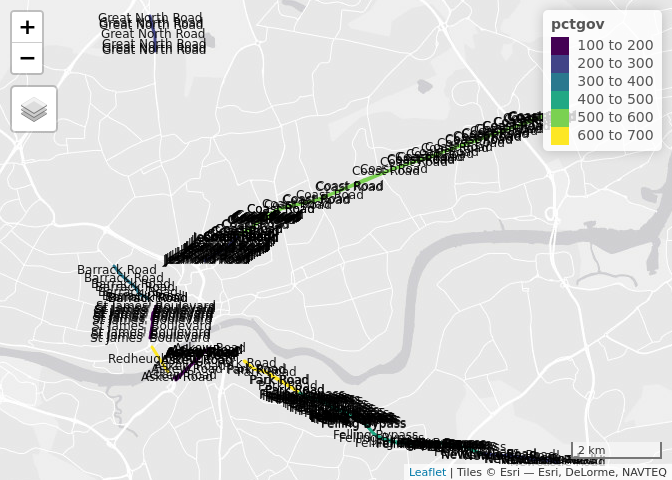
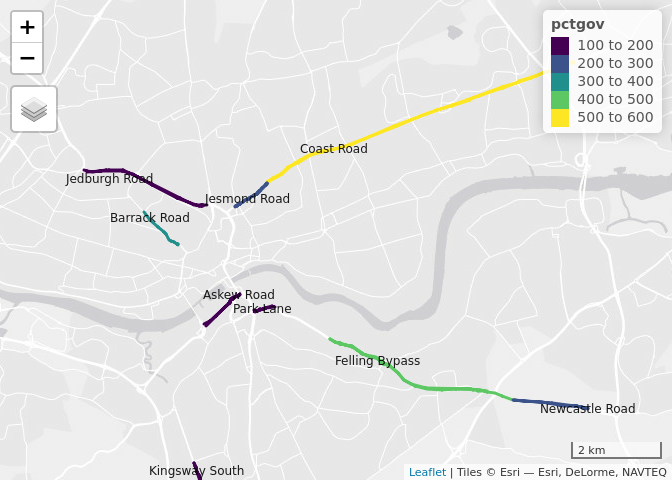
Update results for all 10 cities
Close #3 for now, thanks for feedback @joeytalbot, @mem48 and @mvl22

diff --git a/README.md b/README.md
@@ -246,18 +246,18 @@ The top 10 roads:
 
 ![](README_files/figure-gfm/unnamed-chunk-21-1.png)<!-- -->
 
-| name                | ref   | road\_type | cycling\_potential | length\_m |
-| :------------------ | :---- | :--------- | -----------------: | --------: |
-| Redheugh Bridge     | A189  | primary    |                688 |       649 |
-| Park Road           | A184  | trunk      |                666 |      2849 |
-| Coast Road          | A1058 | trunk      |                529 |     17203 |
-| Felling Bypass      | A184  | trunk      |                490 |      8164 |
-| Barrack Road        | A189  | primary    |                344 |      1063 |
-| Newcastle Road      | A184  | trunk      |                293 |      4492 |
-| Great North Road    | B1318 | secondary  |                214 |       781 |
-| Jesmond Road        | A1058 | trunk      |                211 |      1356 |
-| St James’ Boulevard | A189  | primary    |                169 |      1042 |
-| Askew Road          | A184  | trunk      |                169 |      2131 |
+| name             | ref   | road\_type | cycling\_potential | length\_m |
+| :--------------- | :---- | :--------- | -----------------: | --------: |
+| Askew Road       | A184  | trunk      |                169 |      2131 |
+| Barrack Road     | A189  | primary    |                344 |      1063 |
+| Coast Road       | A1058 | trunk      |                529 |     17203 |
+| Felling Bypass   | A184  | trunk      |                490 |      8164 |
+| Great North Road | B1318 | secondary  |                214 |       781 |
+| Jedburgh Road    | A167  | trunk      |                130 |      5621 |
+| Jesmond Road     | A1058 | trunk      |                211 |      1356 |
+| Kingsway South   |       | tertiary   |                113 |      2467 |
+| Newcastle Road   | A184  | trunk      |                293 |      4492 |
+| Park Lane        | A184  | trunk      |                144 |       917 |
 
 # Cambridge
 
